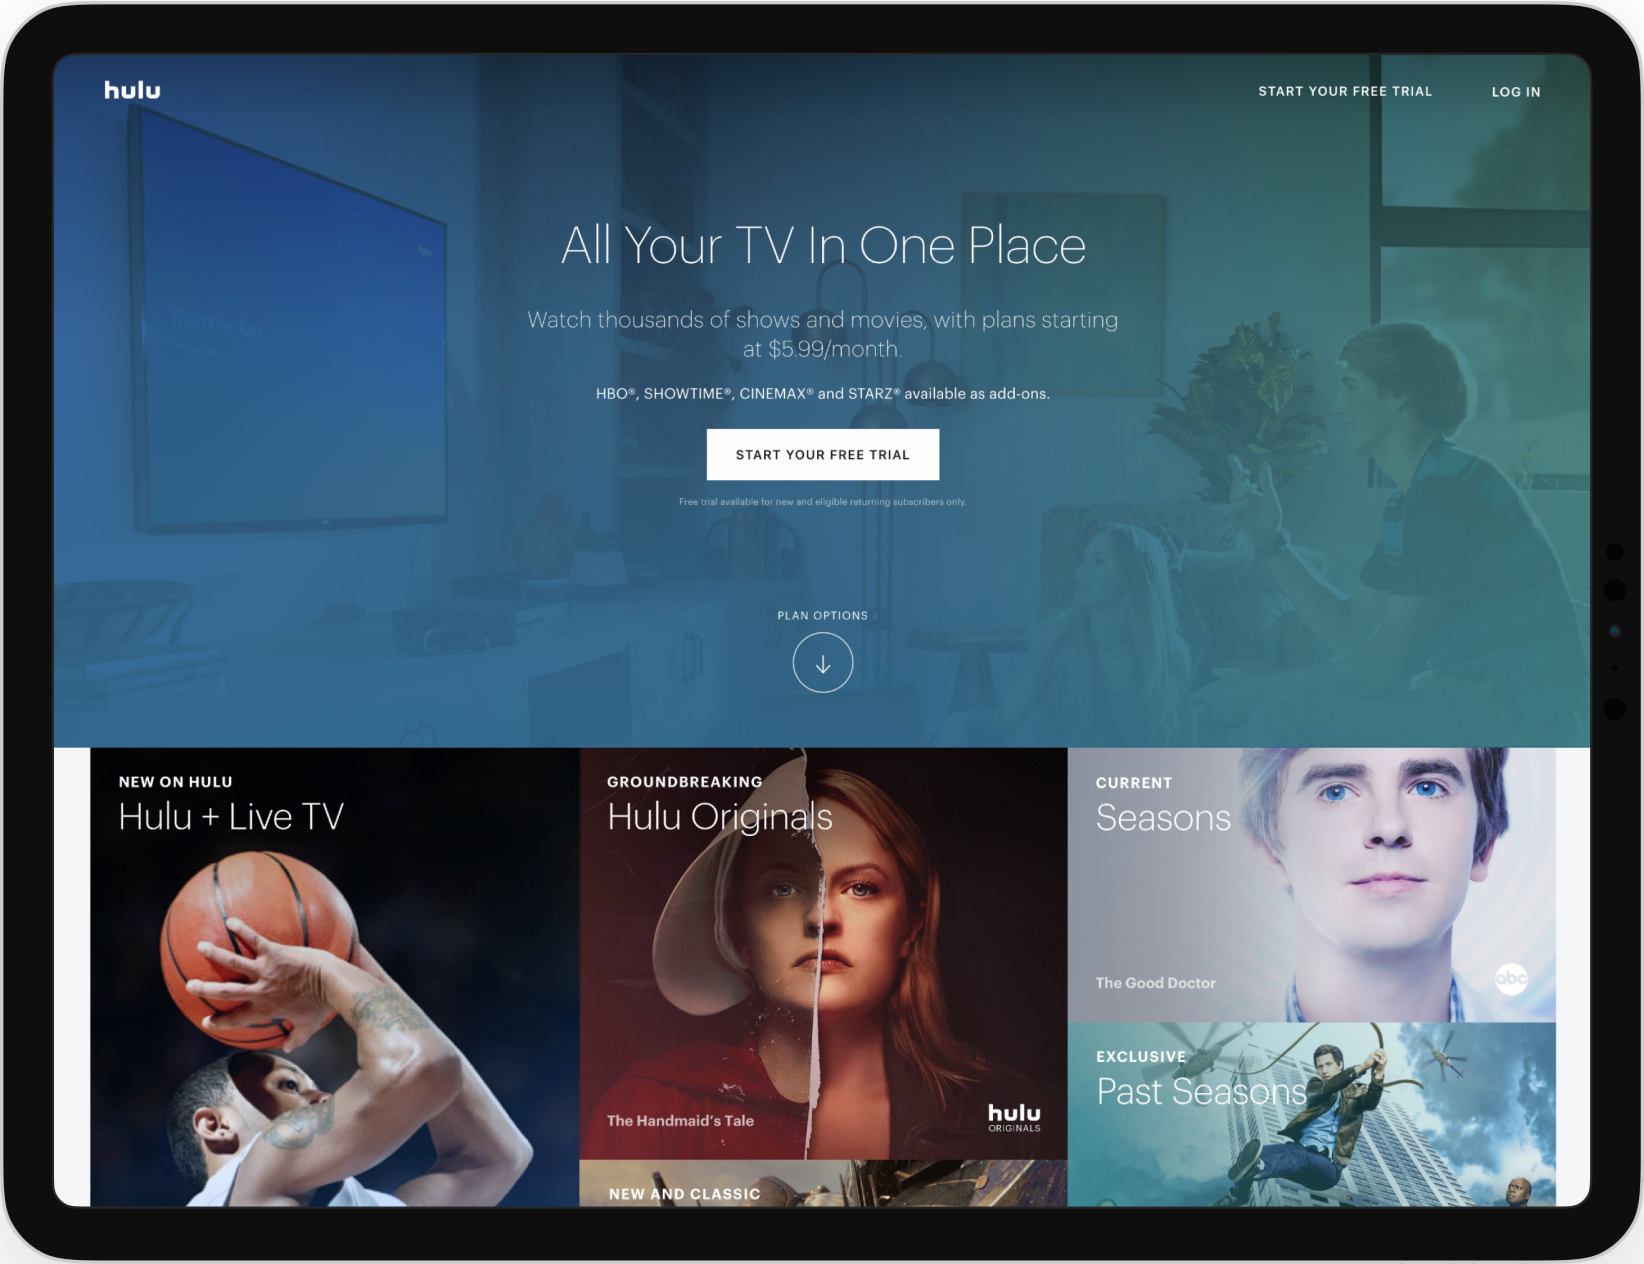
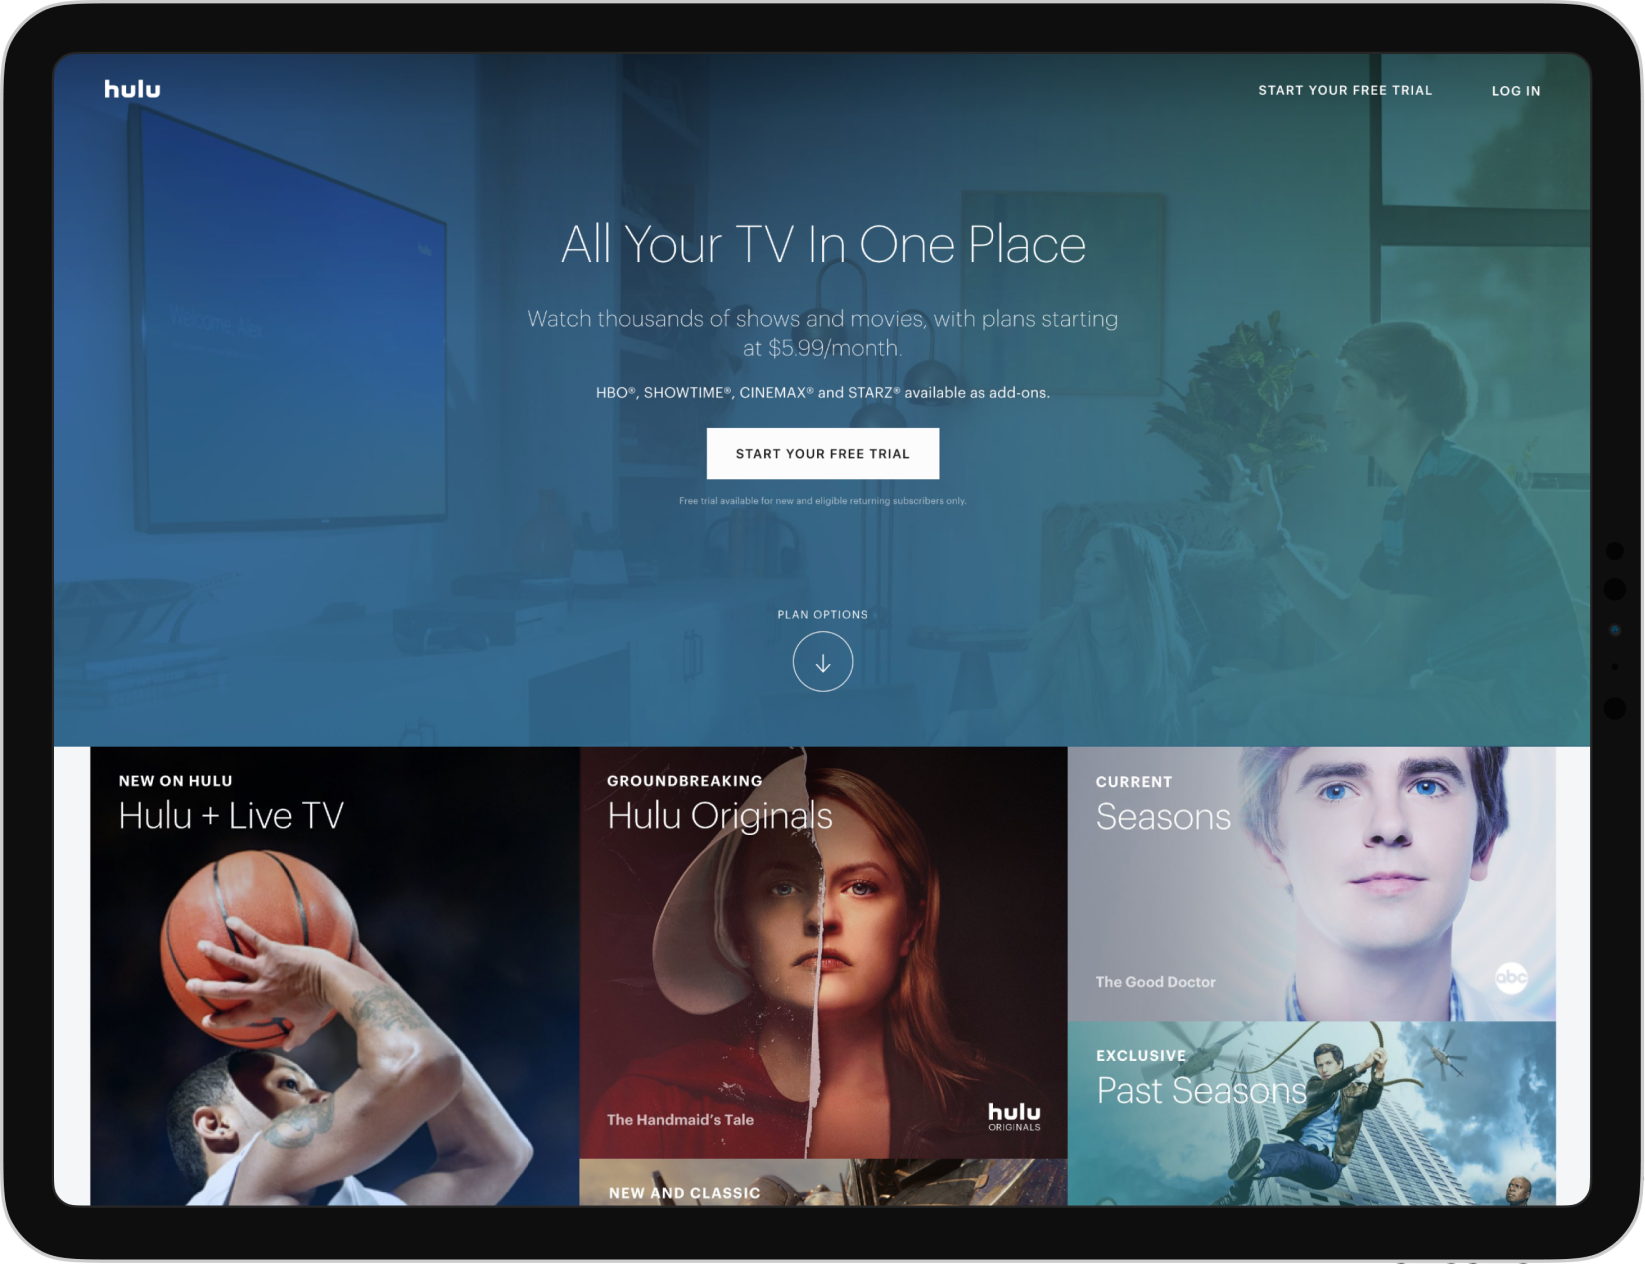
optimize macbook and ipad images

diff --git a/www/components/case-studies/hulu/improvements.js b/www/components/case-studies/hulu/improvements.js
@@ -136,6 +136,8 @@ const Improvements = () => (
           max-width: 822px;
           max-height: 632px;
 
+          border-radius: 37px;
+          overflow: hidden;
           box-shadow: 0px 30px 60px rgba(0, 0, 0, 0.12),
             0px -12px 36px rgba(0, 0, 0, 0.03);
         }
@@ -264,6 +266,9 @@ const Improvements = () => (
           }
           .corner-gradient {
             display: none;
+          }
+          .ipad img {
+            border-radius: 16px;
           }
         }
         @media screen and (max-width: 360px) {
